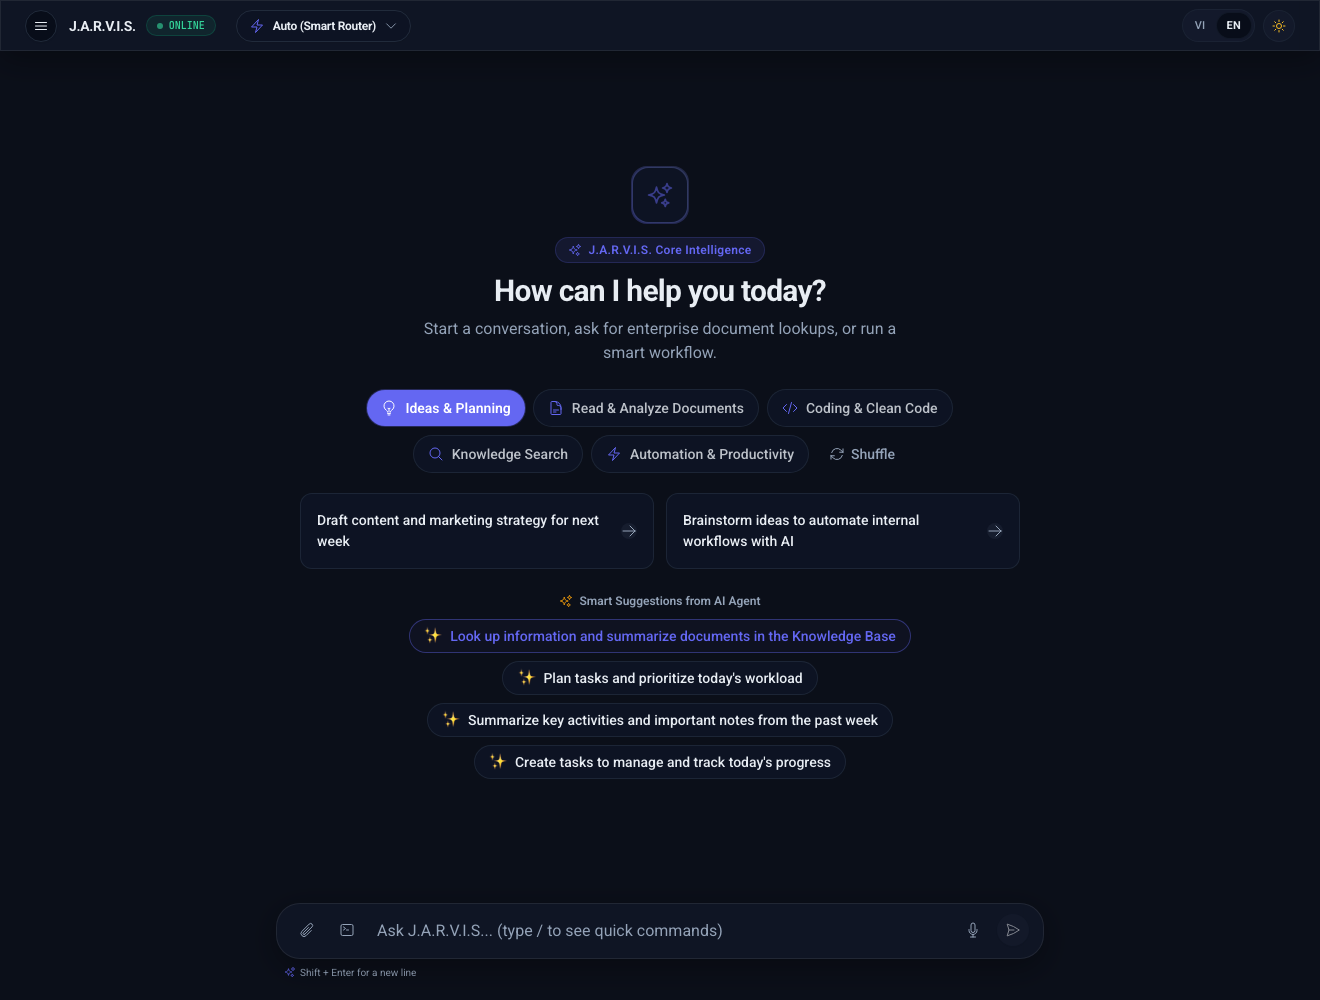
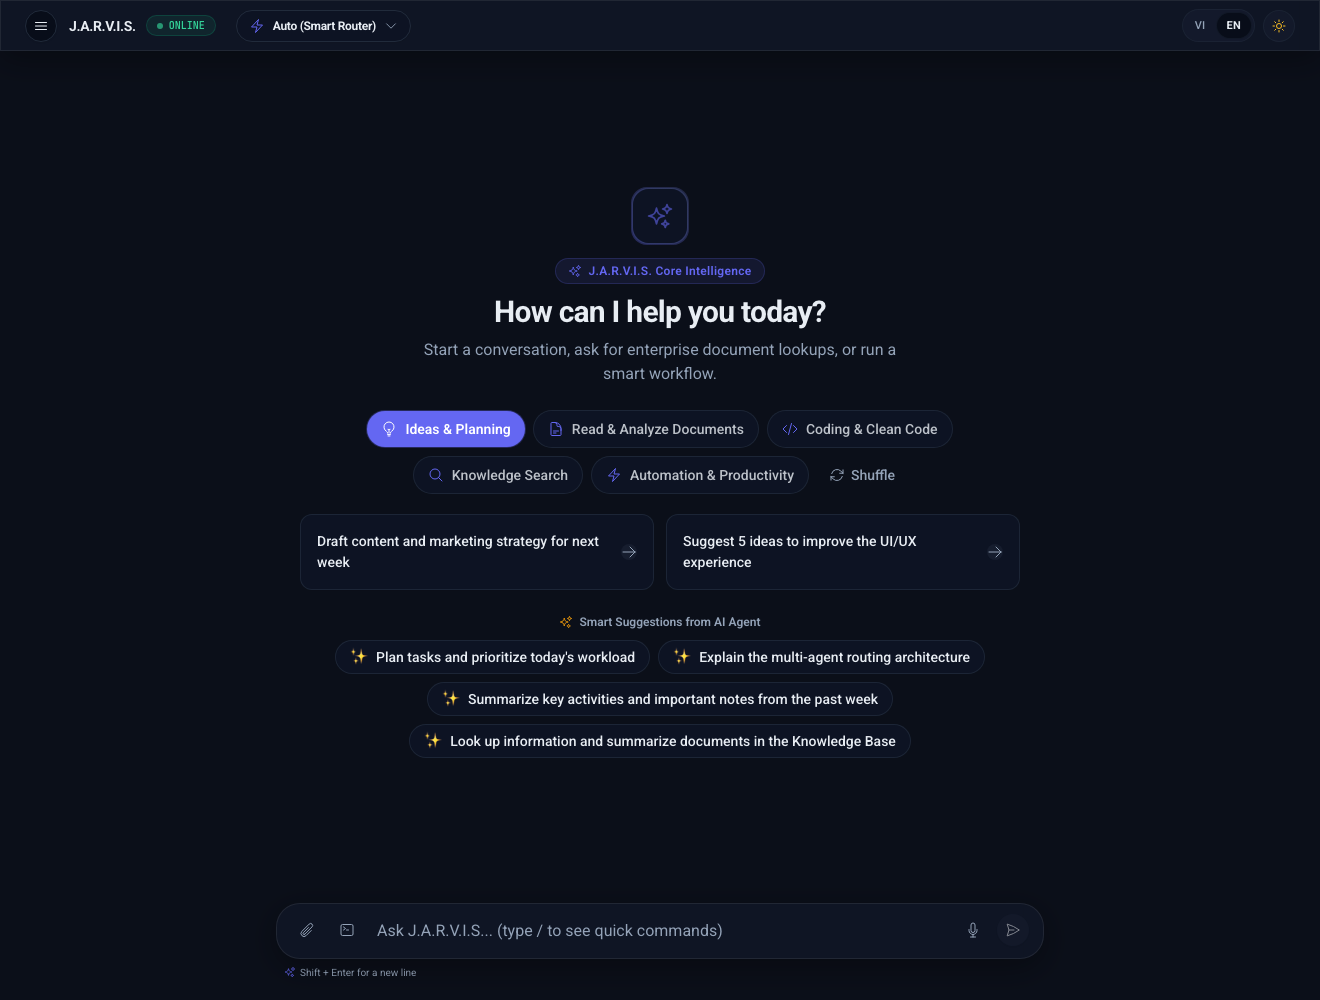
feat(web): add RAG document upload tab to ProductPreview
Add a "Documents & RAG" tab alongside the existing chat screenshot in
ProductPreview, addressing the feedback that the RAG upload UI was
missing from the landing preview. Extend the screenshot script
(renamed to capture-product-screenshots.mjs) to also capture the
/documents empty state -- confirmed clean (0 documents, no leaked
data), unlike the chat sidebar issue noted separately.

Changed region(s): [[0.2485, 0.186, 0.7455, 0.775]]

diff --git a/apps/web/src/modules/landing/components/ProductPreview.tsx b/apps/web/src/modules/landing/components/ProductPreview.tsx
@@ -5,15 +5,36 @@ import { PhotoIcon } from "@heroicons/react/24/outline";
 import { cn } from "@/lib/utils";
 import { useRevealOnScroll } from "@/modules/landing/hooks/useRevealOnScroll";
 
+const TABS = [
+  {
+    key: "chat",
+    src: "/screenshots/chat-preview.png",
+    alt: "J.A.R.V.I.S. chat interface",
+    urlLabel: "app.jarvis.ai/chat",
+  },
+  {
+    key: "documents",
+    src: "/screenshots/documents-preview.png",
+    alt: "J.A.R.V.I.S. document upload & RAG interface",
+    urlLabel: "app.jarvis.ai/documents",
+  },
+] as const;
+
 /**
- * ProductPreview — khung "browser chrome" chứa screenshot thật của giao diện chat.
- * Ảnh đặt tại public/screenshots/chat-preview.png (Vite serve nguyên trạng ở "/screenshots/...").
- * Nếu file chưa tồn tại, fallback về placeholder thay vì icon ảnh vỡ.
+ * ProductPreview — khung "browser chrome" chứa screenshot thật của giao diện sản phẩm,
+ * chuyển tab được giữa Chat và Tải tài liệu (RAG). Ảnh đặt tại public/screenshots/*.png
+ * (Vite serve nguyên trạng ở "/screenshots/..."). Nếu file chưa tồn tại, fallback về
+ * placeholder thay vì icon ảnh vỡ.
  */
 export const ProductPreview: React.FC = () => {
   const { t } = useTranslation("landing");
   const { ref, isVisible } = useRevealOnScroll<HTMLDivElement>();
-  const [imageFailed, setImageFailed] = useState(false);
+  const [activeTab, setActiveTab] = useState<(typeof TABS)[number]["key"]>(
+    TABS[0].key,
+  );
+  const [failedTabs, setFailedTabs] = useState<Set<string>>(new Set());
+  const tab = TABS.find((t) => t.key === activeTab) ?? TABS[0];
+  const imageFailed = failedTabs.has(tab.key);
 
   return (
     <section className="px-6 py-20">
@@ -27,12 +48,30 @@ export const ProductPreview: React.FC = () => {
         <p className="mt-4 text-sm leading-relaxed text-muted-foreground sm:text-base">
           {t("productPreview.subtitle")}
         </p>
+
+        <div className="mt-8 inline-flex items-center gap-1 rounded-full border border-border/60 bg-muted/40 p-1">
+          {TABS.map(({ key }) => (
+            <button
+              key={key}
+              type="button"
+              onClick={() => setActiveTab(key)}
+              className={cn(
+                "rounded-full px-4 py-1.5 text-xs font-semibold transition-colors sm:text-sm",
+                activeTab === key
+                  ? "bg-primary text-primary-foreground shadow-sm"
+                  : "text-muted-foreground hover:text-foreground",
+              )}
+            >
+              {t(`productPreview.tabs.${key}`)}
+            </button>
+          ))}
+        </div>
       </div>
 
       <div
         ref={ref}
         className={cn(
-          "relative mx-auto mt-14 max-w-5xl",
+          "relative mx-auto mt-10 max-w-5xl",
           isVisible ? "animate-slide-up" : "opacity-0",
         )}
       >
@@ -45,7 +84,7 @@ export const ProductPreview: React.FC = () => {
             <span className="h-2.5 w-2.5 rounded-full bg-amber-400/70" />
             <span className="h-2.5 w-2.5 rounded-full bg-emerald-400/70" />
             <span className="ml-3 truncate text-[11px] font-mono text-muted-foreground">
-              app.jarvis.ai/chat
+              {tab.urlLabel}
             </span>
           </div>
 
@@ -64,13 +103,16 @@ export const ProductPreview: React.FC = () => {
               </div>
             ) : (
               <img
-                src="/screenshots/chat-preview.png"
-                alt="J.A.R.V.I.S. chat interface"
+                key={tab.key}
+                src={tab.src}
+                alt={tab.alt}
                 width={1600}
                 height={1000}
                 loading="lazy"
                 className="h-full w-full object-cover object-top"
-                onError={() => setImageFailed(true)}
+                onError={() =>
+                  setFailedTabs((prev) => new Set(prev).add(tab.key))
+                }
               />
             )}
           </div>
